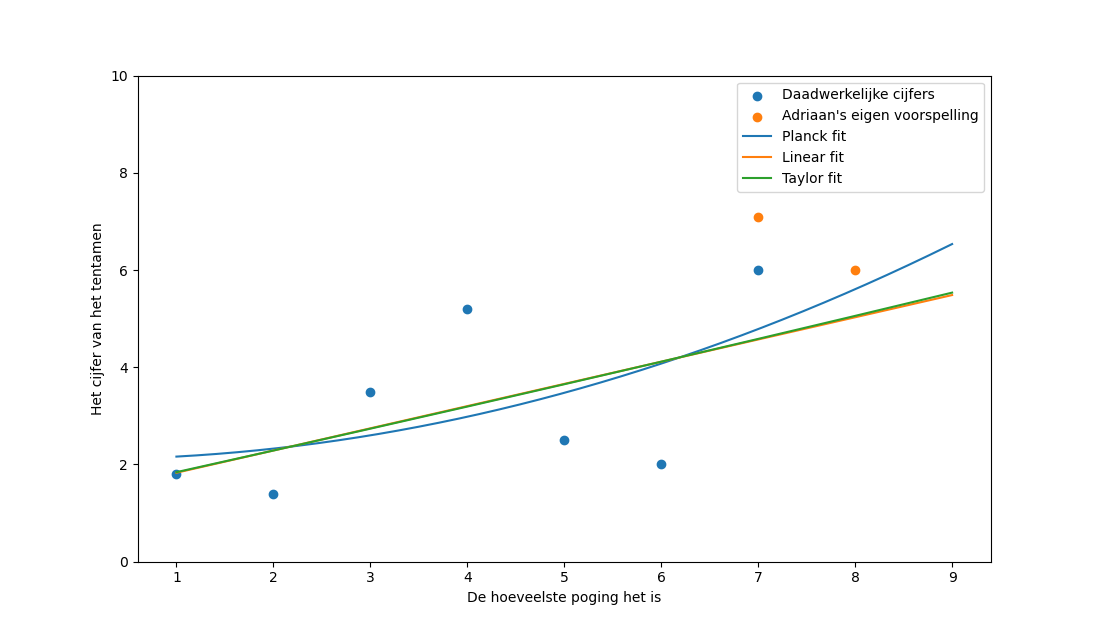
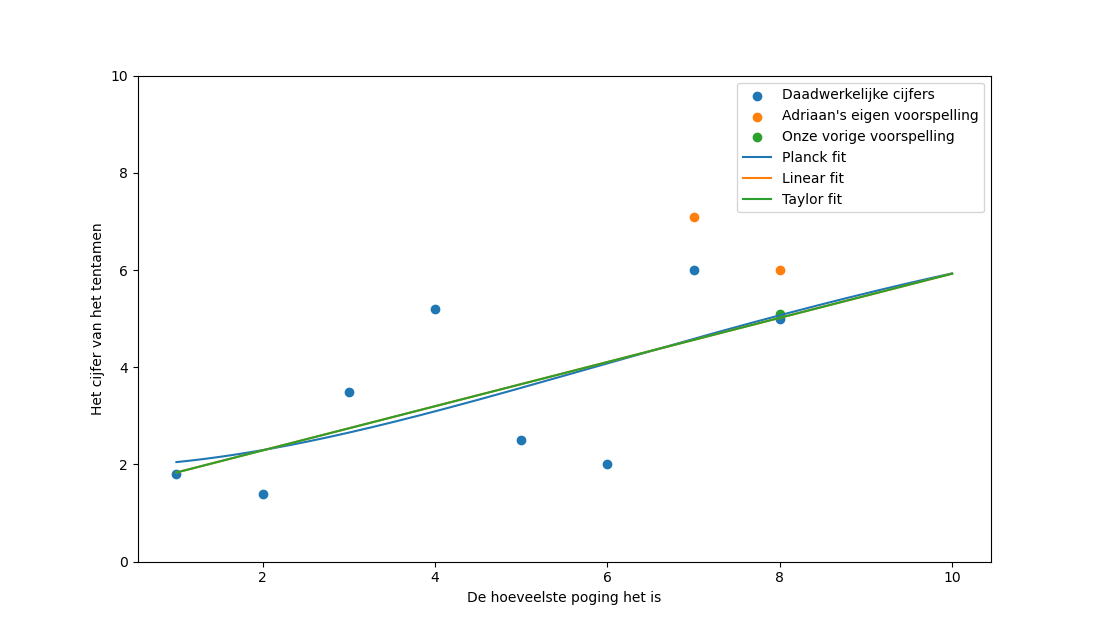
Update with new exam

diff --git a/index.html b/index.html
@@ -1,7 +1,18 @@
 <title>Heeft Adriaan mechanica al gehaald?</title>
 <h2>Heeft Adriaan mechanica al gehaald?</h2>
-<h1>Nee (maar wel het tussententamen)</h1>
-<h2><i>En we voorspellen dat hij voor zijn volgende tentamen een </i>5.1<i> gaat halen</i><h2>
-<h4><i>Hij denkt zelf dat hij een </i>6.0<i> zal halen</i></h4>
-<h4><i>Hij heeft al 7 tentamens gemaakt, en volgens onze lineaire fit zal hij zijn </i>9e<i> tentamen eindelijk halen</i></h4>
-<img src="fits.png">
+<h1>Nee</h1>
+<h4>
+  <i>Maar hij gaat nog naar de inzage voor (hopelijk) een hoger cijfer</i>
+</h4>
+<h2>
+  <i>En we voorspellen dat hij voor zijn volgende tentamen een </i>5.5<i>
+    gaat halen</i
+  >
+</h2>
+<!--<h4><i>Hij denkt zelf dat hij een </i>6.0<i> zal halen</i></h4>!-->
+<h4>
+  <i
+    >Hij heeft al 8 tentamens gemaakt, en volgens onze lineaire fit zal hij zijn </i
+  >9e<i> tentamen eindelijk halen</i>
+</h4>
+<img src="fits.png" />

diff --git a/fit.py b/fit.py
@@ -37,12 +37,13 @@ def fit_stuff(f, cijfers):
     )
 
 
-cijfers = [1.8, 1.4, 3.5, 5.2, 2.5, 2, 6.0]
+cijfers = [1.8, 1.4, 3.5, 5.2, 2.5, 2, 6.0, 5.0]
 xs = list(range(1, len(cijfers) + 1))
 
 
 plt.scatter(xs, cijfers, label="Daadwerkelijke cijfers")
 plt.scatter((7, 8), (7.1, 6.0), label="Adriaan's eigen voorspelling")
+plt.scatter((8), (5.1), label="Onze vorige voorspelling")
 
 prediction, tentamen_halen, x_continuous, cijfers_continuous = fit_stuff(
     planck, cijfers
